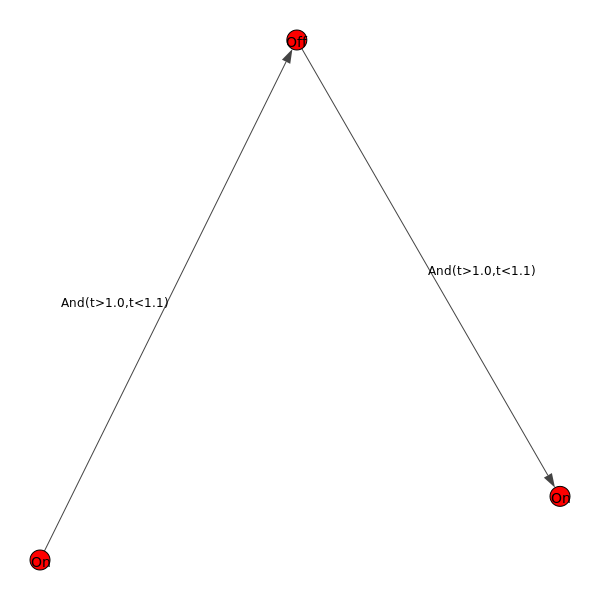
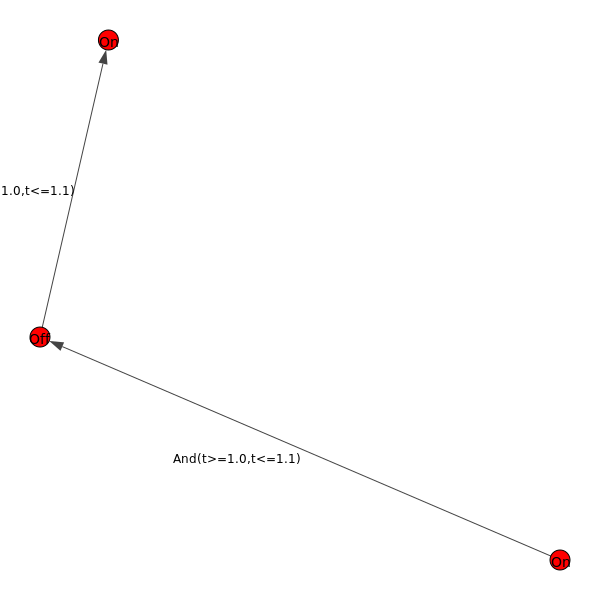
finish the simulation with guard!

diff --git a/src/core/dryvrcore.py b/src/core/dryvrcore.py
@@ -35,17 +35,8 @@ def buildGraph(vertex, edge, guards, timeHorizon):
 
 	return g
 
-# def refineGraph(g):
-# 	label = g.es['label']
-# 	divide = g.es['divide']
-
-# 	maxIdx = [(label[i][1]-label[i][0])/float(divide[i]) for i in range(len(label))]
-# 	idx = maxidx.index(max(maxIdx))
-# 	divide[idx] += 1
-# 	g.es["divide"] = divide
-
-def simulate(g, initCondition, timeHorizon, simFuc):
-	# Taken graph, initial condition, simulate time
+def simulate(g, initCondition, timeHorizon, guard, simFuc):
+	# Taken graph, initial condition, simulate time, guard
 	# simFuc is the simulation function
 	# which takes label, initial condition and simulation time
 	retval = defaultdict(list)
@@ -62,28 +53,36 @@ def simulate(g, initCondition, timeHorizon, simFuc):
 
 		if DEBUG:
 			print NEWLINE
-			print 'Current State', g.vs[curVertex]['label']
+			print 'Current State', g.vs[curVertex]['label'], remainTime
 
 		curSuccessors = g.successors(curVertex)
 
 		if len(curSuccessors) == 0:
 			transiteTime = remainTime
+			curGuardStr = None
 		else:
 			# Randomly pick a path and time to transit
 			curSuccessor = random.choice(curSuccessors)
 			edgeID = g.get_eid(curVertex,curSuccessor)
-			curTransitTime = g.es[edgeID]['label']
-			transiteTime = randomPoint(curTransitTime[0], curTransitTime[1])
+			curGuardStr = g.es[edgeID]['label']
+			transiteTime = remainTime
+		
 
 		curLabel = g.vs[curVertex]['label']
 		curSimResult = simFuc(curLabel, initCondition, transiteTime)
-		retval[curLabel] += curSimResult
-		for simRow in curSimResult:
+		initCondition, trunckedResult = guard.guardSimuTube(
+			curSimResult,
+			curGuardStr
+		)
+		# Get real transite time from truncked result
+		transiteTime = trunckedResult[-1][0]
+		retval[curLabel] += trunckedResult
+
+		for simRow in trunckedResult:
 			simRow[0] += curTime
 			simResult.append(simRow)
 
 		remainTime -= transiteTime
-		initCondition = curSimResult[-1][1:]
 		curTime += transiteTime
 		curVertex = curSuccessor
 

diff --git a/src/core/dryvrmain.py b/src/core/dryvrmain.py
@@ -22,25 +22,26 @@ def verify(inputFile):
 	checker = UniformChecker(params.unsafeSet, params.variables)
 	guard = Guard(params.variables)
 
-	# # Step 1) Simulation Test 
-	# # Random generate points, then simulate and check the result
-	# for _ in range(SIMUTESTNUM):
-	# 	randInit = randomPoint(params.initialSet[0], params.initialSet[1])
+	# Step 1) Simulation Test 
+	# Random generate points, then simulate and check the result
+	for _ in range(SIMUTESTNUM):
+		randInit = randomPoint(params.initialSet[0], params.initialSet[1])
 
-	# 	if DEBUG:
-	# 		print 'Random checking round ', _, 'at point ', randInit
+		if DEBUG:
+			print 'Random checking round ', _, 'at point ', randInit
 
-	# 	simResult = simulate(
-	# 		graph,
-	# 		randInit,
-	# 		params.timeHorizon,
-	# 		simFunction,
-	# 	)
-	# 	for mode in simResult:
-	# 		safety = checker.checkSimuTube(simResult[mode], mode)
-	# 		if safety == -1:
-	# 			print 'Current simulation is not safe. Program halt'
-	# 			exit()
+		simResult = simulate(
+			graph,
+			randInit,
+			params.timeHorizon,
+			guard,
+			simFunction,
+		)
+		for mode in simResult:
+			safety = checker.checkSimuTube(simResult[mode], mode)
+			if safety == -1:
+				print 'Current simulation is not safe. Program halt'
+				exit()
 
 	# # # Step 2) Check Reach Tube
 	# # # Calculate the over approximation of the reach tube and check the result

diff --git a/src/core/guard.py b/src/core/guard.py
@@ -2,6 +2,8 @@
 This file contains initial set class for DryVR
 """
 
+import random
+
 from z3 import *
 
 class Guard():
@@ -35,8 +37,11 @@ class Guard():
 		return curSolver
 
 	def guardSimuTube(self, tube, guardStr):
-		curSolver = self._buildGuard(guardStr)
+		if not guardStr:
+			return None, tube
 
+		curSolver = self._buildGuard(guardStr)
+		guardSet = {}
 		for idx,t in enumerate(tube):
 			curSolver.push()
 			curSolver.add(self.varDic['t'] == t[0])
@@ -46,9 +51,15 @@ class Guard():
 			if curSolver.check() == sat:
 				# The simulation trace hits the guard
 				curSolver.pop()
-				return t, tube[:idx]
+				guardSet[idx] = t
 			else:
 				curSolver.pop()
+				if guardSet:
+					# Guard is not empty, randomly pick one and return
+					idx, point = random.choice(list(guardSet.items()))
+					# Return the initial point for next mode, and truncked tube
+					return point[1:], tube[:idx+1]
+
 		# No guard hits for current tube
 		return None, tube
 
